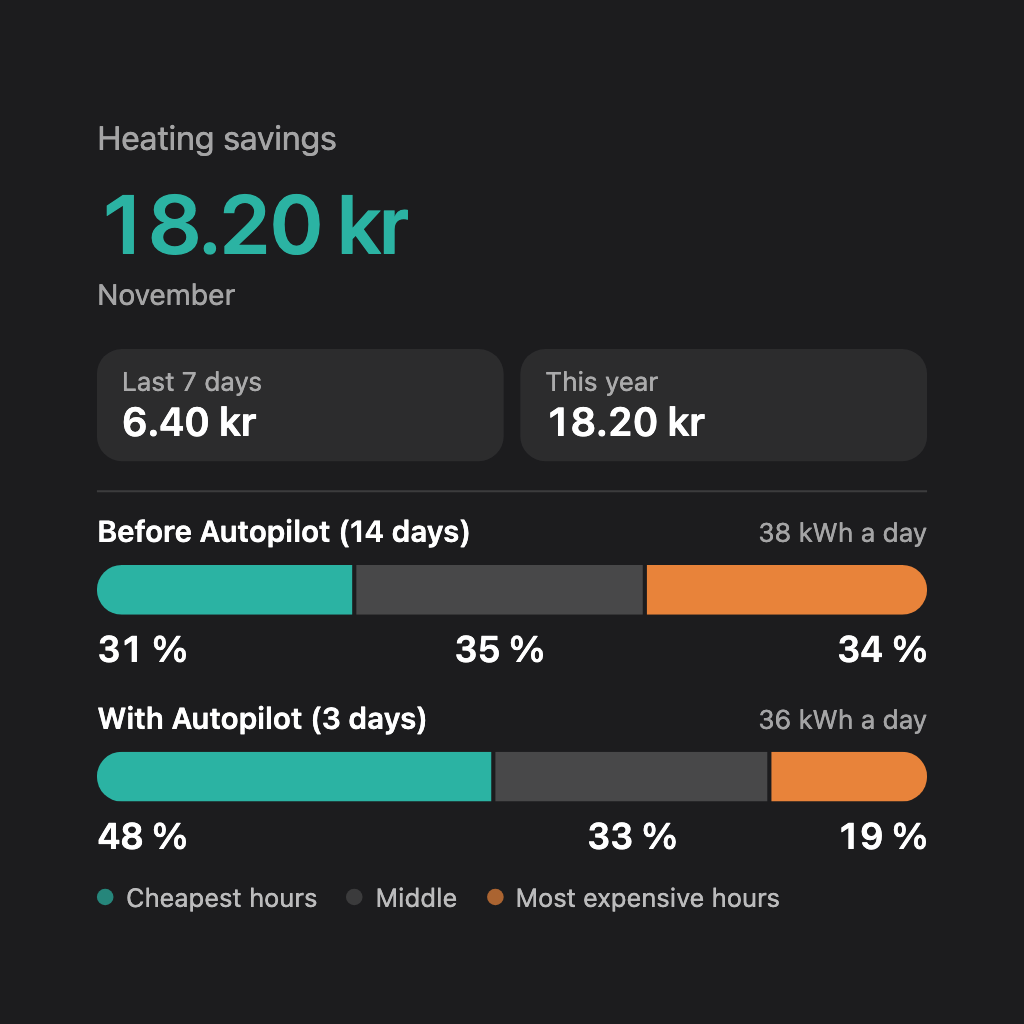
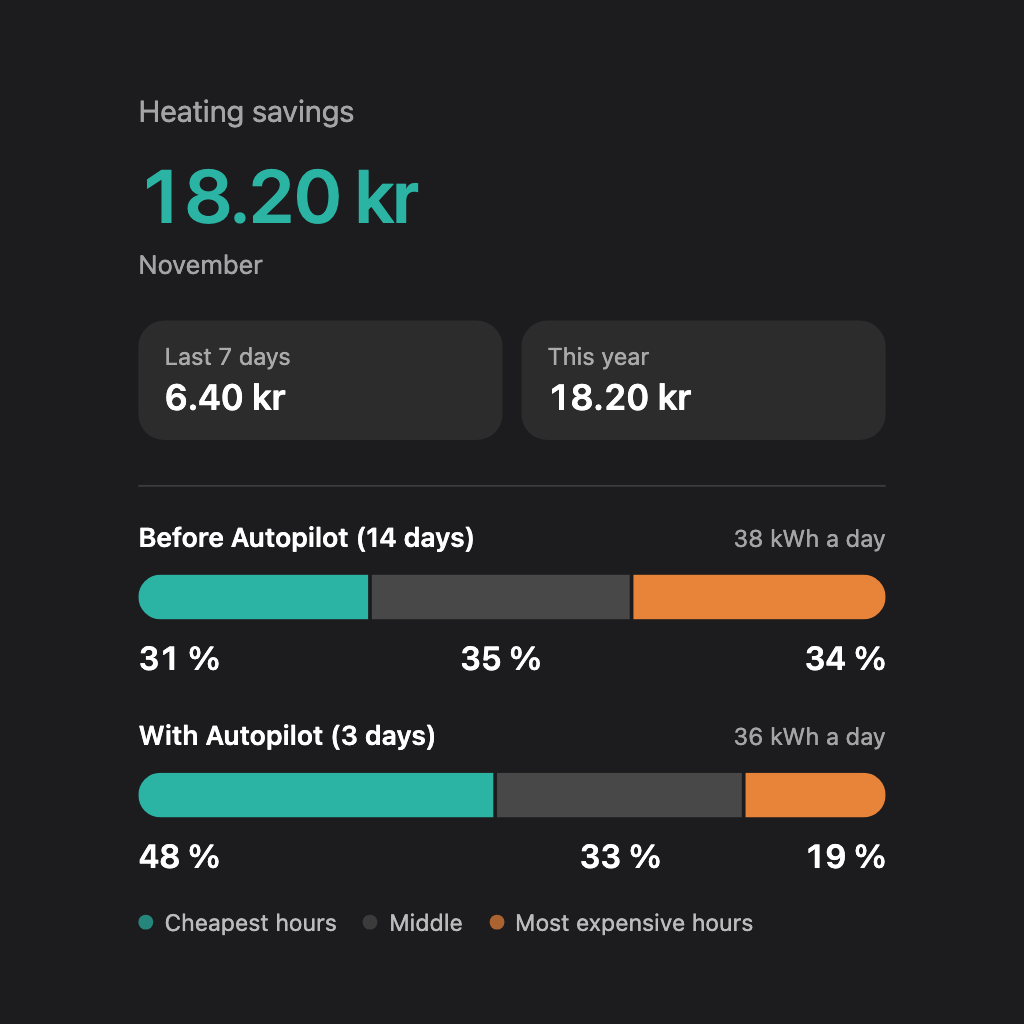
Savings cards: more room between sections, tiles and labels

diff --git a/widgets/savings/public/index.html b/widgets/savings/public/index.html
@@ -6,27 +6,28 @@
          each picture under a divider. Bars are 24 px, as thick as a line of text. */
       .sv { padding: var(--homey-su-2, 8px) var(--homey-su-3, 12px); }
       .sv-label { margin: 4px 0 0; opacity: 0.6; white-space: nowrap; overflow: hidden; text-overflow: ellipsis; }
-      .sv-hero { margin: 12px 0 0; font-size: 2.5em; line-height: 1; font-weight: 600; letter-spacing: -0.02em; font-variant-numeric: tabular-nums; }
+      .sv-hero { margin: 16px 0 0; font-size: 2.5em; line-height: 1; font-weight: 600; letter-spacing: -0.02em; font-variant-numeric: tabular-nums; }
       .sv-hero.good { color: var(--sv-cheap); }
       .sv-hero.bad { color: var(--sv-dear); }
-      .sv-caption { margin: 6px 0 0; opacity: 0.6; }
-      .sv-pill { display: inline-flex; align-items: center; gap: 8px; margin: 12px 0 0; padding: 6px 12px; border-radius: 14px; background: var(--sv-tile); font-size: 0.86em; line-height: 1.3; }
+      .sv-caption { margin: 8px 0 0; opacity: 0.6; }
+      .sv-pill { display: inline-flex; align-items: center; gap: 8px; margin: 16px 0 0; padding: 8px 14px; border-radius: 14px; background: var(--sv-tile); font-size: 0.86em; line-height: 1.3; }
       .sv-dot { flex: none; width: 7px; height: 7px; border-radius: 50%; background: var(--sv-cheap); }
-      .sv-tiles { display: grid; grid-template-columns: 1fr 1fr; gap: 8px; margin: 16px 0 0; }
-      .sv-tile { background: var(--sv-tile); border-radius: 12px; padding: 8px 12px; min-width: 0; }
+      .sv-tiles { display: grid; grid-template-columns: 1fr 1fr; gap: 10px; margin: 20px 0 0; }
+      .sv-tile { background: var(--sv-tile); border-radius: 14px; padding: 12px 14px; min-width: 0; }
       .sv-tile-k { font-size: 0.8em; opacity: 0.6; white-space: nowrap; overflow: hidden; text-overflow: ellipsis; }
+      .sv-tile-k + .sv-tile-v { margin-top: 2px; }
       .sv-tile-v { font-size: 1.2em; font-weight: 600; font-variant-numeric: tabular-nums; }
-      .sv-rule { height: 1px; background: var(--sv-rule); margin: 14px 0 10px; }
+      .sv-rule { height: 1px; background: var(--sv-rule); margin: 24px 0 18px; }
       .sv-sub { font-size: 0.86em; font-weight: 600; opacity: 0.75; }
-      .sv-row-head { display: flex; justify-content: space-between; align-items: baseline; gap: 8px; margin: 14px 0 0; }
+      .sv-row-head { display: flex; justify-content: space-between; align-items: baseline; gap: 8px; margin: 22px 0 0; }
       .sv-row-head:first-child { margin-top: 0; }
       .sv-row-k { font-weight: 600; font-size: 0.9em; }
       .sv-row-v { font-size: 0.8em; opacity: 0.6; font-variant-numeric: tabular-nums; white-space: nowrap; }
-      .sv-bar { display: flex; gap: 2px; height: 24px; border-radius: 12px; overflow: hidden; margin: 8px 0 0; }
+      .sv-bar { display: flex; gap: 2px; height: 24px; border-radius: 12px; overflow: hidden; margin: 12px 0 0; }
       .sv-bar > div { min-width: 2px; }
       /* One label under each part of the bar: the cheap one from the left edge, the expensive one to
          the right edge, the middle one centred under its own part and kept clear of the other two. */
-      .sv-marks { position: relative; margin: 6px 0 0; }
+      .sv-marks { position: relative; margin: 10px 0 0; }
       .sv-mark { position: absolute; top: 0; white-space: nowrap; }
       .sv-mark.end { text-align: right; }
       .sv-mark-v { font-size: 1.1em; font-weight: 600; font-variant-numeric: tabular-nums; line-height: 1.2; }
@@ -36,11 +37,11 @@
       .sv-was { font-size: 1.1em; opacity: 0.5; text-decoration: line-through; font-variant-numeric: tabular-nums; }
       .sv-now { font-size: 1.4em; font-weight: 600; font-variant-numeric: tabular-nums; }
       .sv-change { font-size: 0.86em; font-weight: 600; }
-      .sv-days { display: grid; margin: 12px 0 0; text-align: center; font-size: 0.78em; }
-      .sv-day-col { display: flex; justify-content: center; margin-bottom: 4px; }
+      .sv-days { display: grid; margin: 20px 0 0; text-align: center; font-size: 0.78em; }
+      .sv-day-col { display: flex; justify-content: center; margin-bottom: 6px; }
       .sv-day-k { opacity: 0.6; }
       .sv-day-k.today { opacity: 1; font-weight: 700; }
-      .sv-legend { display: flex; flex-wrap: wrap; gap: 4px 14px; font-size: 0.78em; opacity: 0.7; margin-top: 12px; }
+      .sv-legend { display: flex; flex-wrap: wrap; gap: 4px 14px; font-size: 0.78em; opacity: 0.7; margin-top: 18px; }
       .sv-key { display: inline-block; width: 8px; height: 8px; border-radius: 50%; margin-right: 6px; vertical-align: 1px; }
       .sv-note { margin: 12px 0 0; opacity: 0.7; }
       .sv-empty { opacity: 0.8; margin: 12px 0; }

diff --git a/widgets/savings_hotwater/public/index.html b/widgets/savings_hotwater/public/index.html
@@ -6,27 +6,28 @@
          each picture under a divider. Bars are 24 px, as thick as a line of text. */
       .sv { padding: var(--homey-su-2, 8px) var(--homey-su-3, 12px); }
       .sv-label { margin: 4px 0 0; opacity: 0.6; white-space: nowrap; overflow: hidden; text-overflow: ellipsis; }
-      .sv-hero { margin: 12px 0 0; font-size: 2.5em; line-height: 1; font-weight: 600; letter-spacing: -0.02em; font-variant-numeric: tabular-nums; }
+      .sv-hero { margin: 16px 0 0; font-size: 2.5em; line-height: 1; font-weight: 600; letter-spacing: -0.02em; font-variant-numeric: tabular-nums; }
       .sv-hero.good { color: var(--sv-cheap); }
       .sv-hero.bad { color: var(--sv-dear); }
-      .sv-caption { margin: 6px 0 0; opacity: 0.6; }
-      .sv-pill { display: inline-flex; align-items: center; gap: 8px; margin: 12px 0 0; padding: 6px 12px; border-radius: 14px; background: var(--sv-tile); font-size: 0.86em; line-height: 1.3; }
+      .sv-caption { margin: 8px 0 0; opacity: 0.6; }
+      .sv-pill { display: inline-flex; align-items: center; gap: 8px; margin: 16px 0 0; padding: 8px 14px; border-radius: 14px; background: var(--sv-tile); font-size: 0.86em; line-height: 1.3; }
       .sv-dot { flex: none; width: 7px; height: 7px; border-radius: 50%; background: var(--sv-cheap); }
-      .sv-tiles { display: grid; grid-template-columns: 1fr 1fr; gap: 8px; margin: 16px 0 0; }
-      .sv-tile { background: var(--sv-tile); border-radius: 12px; padding: 8px 12px; min-width: 0; }
+      .sv-tiles { display: grid; grid-template-columns: 1fr 1fr; gap: 10px; margin: 20px 0 0; }
+      .sv-tile { background: var(--sv-tile); border-radius: 14px; padding: 12px 14px; min-width: 0; }
       .sv-tile-k { font-size: 0.8em; opacity: 0.6; white-space: nowrap; overflow: hidden; text-overflow: ellipsis; }
+      .sv-tile-k + .sv-tile-v { margin-top: 2px; }
       .sv-tile-v { font-size: 1.2em; font-weight: 600; font-variant-numeric: tabular-nums; }
-      .sv-rule { height: 1px; background: var(--sv-rule); margin: 14px 0 10px; }
+      .sv-rule { height: 1px; background: var(--sv-rule); margin: 24px 0 18px; }
       .sv-sub { font-size: 0.86em; font-weight: 600; opacity: 0.75; }
-      .sv-row-head { display: flex; justify-content: space-between; align-items: baseline; gap: 8px; margin: 14px 0 0; }
+      .sv-row-head { display: flex; justify-content: space-between; align-items: baseline; gap: 8px; margin: 22px 0 0; }
       .sv-row-head:first-child { margin-top: 0; }
       .sv-row-k { font-weight: 600; font-size: 0.9em; }
       .sv-row-v { font-size: 0.8em; opacity: 0.6; font-variant-numeric: tabular-nums; white-space: nowrap; }
-      .sv-bar { display: flex; gap: 2px; height: 24px; border-radius: 12px; overflow: hidden; margin: 8px 0 0; }
+      .sv-bar { display: flex; gap: 2px; height: 24px; border-radius: 12px; overflow: hidden; margin: 12px 0 0; }
       .sv-bar > div { min-width: 2px; }
       /* One label under each part of the bar: the cheap one from the left edge, the expensive one to
          the right edge, the middle one centred under its own part and kept clear of the other two. */
-      .sv-marks { position: relative; margin: 6px 0 0; }
+      .sv-marks { position: relative; margin: 10px 0 0; }
       .sv-mark { position: absolute; top: 0; white-space: nowrap; }
       .sv-mark.end { text-align: right; }
       .sv-mark-v { font-size: 1.1em; font-weight: 600; font-variant-numeric: tabular-nums; line-height: 1.2; }
@@ -36,11 +37,11 @@
       .sv-was { font-size: 1.1em; opacity: 0.5; text-decoration: line-through; font-variant-numeric: tabular-nums; }
       .sv-now { font-size: 1.4em; font-weight: 600; font-variant-numeric: tabular-nums; }
       .sv-change { font-size: 0.86em; font-weight: 600; }
-      .sv-days { display: grid; margin: 12px 0 0; text-align: center; font-size: 0.78em; }
-      .sv-day-col { display: flex; justify-content: center; margin-bottom: 4px; }
+      .sv-days { display: grid; margin: 20px 0 0; text-align: center; font-size: 0.78em; }
+      .sv-day-col { display: flex; justify-content: center; margin-bottom: 6px; }
       .sv-day-k { opacity: 0.6; }
       .sv-day-k.today { opacity: 1; font-weight: 700; }
-      .sv-legend { display: flex; flex-wrap: wrap; gap: 4px 14px; font-size: 0.78em; opacity: 0.7; margin-top: 12px; }
+      .sv-legend { display: flex; flex-wrap: wrap; gap: 4px 14px; font-size: 0.78em; opacity: 0.7; margin-top: 18px; }
       .sv-key { display: inline-block; width: 8px; height: 8px; border-radius: 50%; margin-right: 6px; vertical-align: 1px; }
       .sv-note { margin: 12px 0 0; opacity: 0.7; }
       .sv-empty { opacity: 0.8; margin: 12px 0; }
